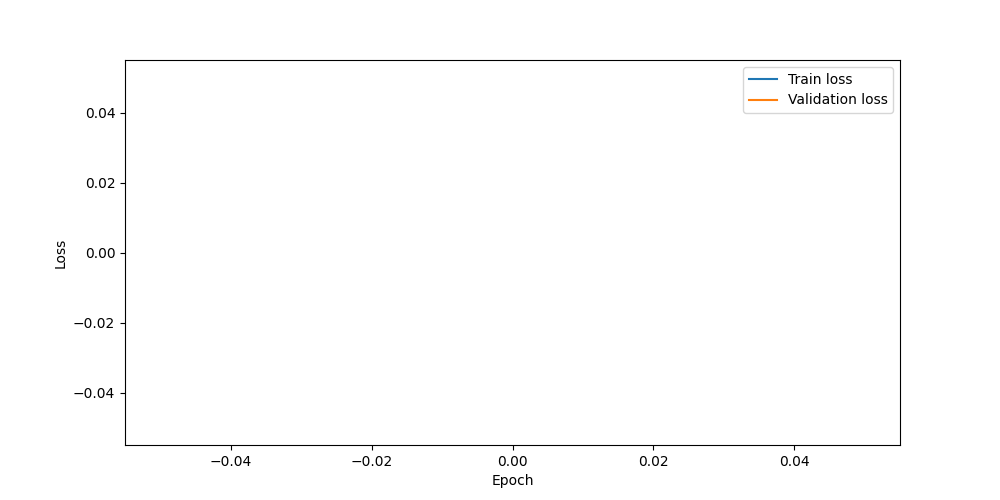
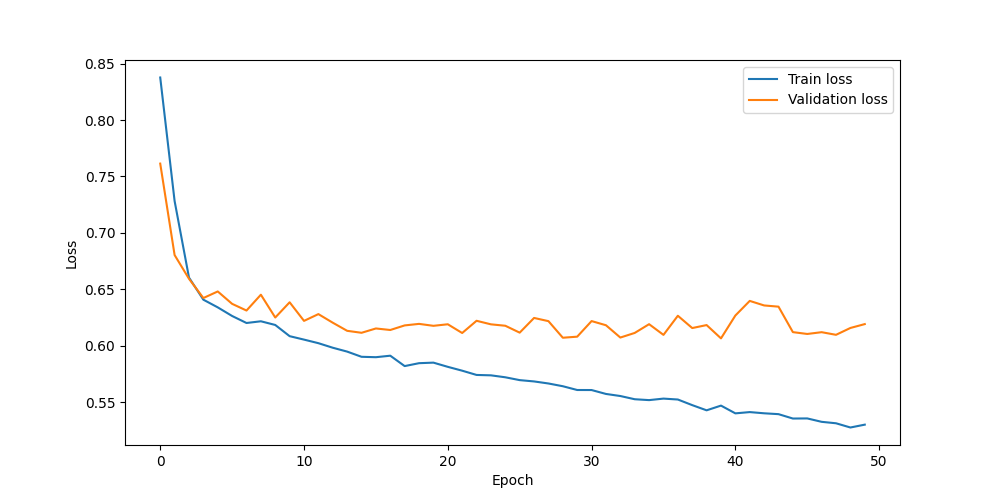
First functional pytorch model. More data needed

diff --git a/src/model_training/trainer.py b/src/model_training/trainer.py
@@ -51,24 +51,11 @@ class Trainer:
     def build(self) -> nn.Module:
         torch.backends.cuda.matmul.allow_tf32 = False
         torch.backends.cudnn.allow_tf32 = False
-        torch.backends.cudnn.benchmark = False
-        torch.backends.cudnn.deterministic = True
+        torch.backends.cudnn.benchmark = True      # False
+        torch.backends.cudnn.deterministic = False   # True
 
         self.model = self.model_strategy.build(self.input_shape, self.NUM_CLASSES)
         self.model.to(self.device)
-        
-        # DEBUG — verificar que CUDA funciona
-        print(f"Device: {self.device}")
-        print(f"CUDA available: {torch.cuda.is_available()}")
-        if torch.cuda.is_available():
-            print(f"GPU: {torch.cuda.get_device_name(0)}")
-            # Test rápido en GPU
-            x = torch.randn(2, 1, 256, 256).to(self.device)
-            with torch.no_grad():
-                out = self.model(x)
-            print(f"GPU test output has nan: {torch.isnan(out).any().item()}")
-            print(f"GPU test output min: {out.min().item():.4f} max: {out.max().item():.4f}")
-        
         print(self.model)
         return self.model
 
@@ -98,14 +85,16 @@ class Trainer:
         best_val_loss = float("inf")
 
         for epoch in range(1, self.epochs + 1):
-            train_metrics = self._run_epoch(train_loader, criterion, optimizer, training=True)
-            val_metrics   = self._run_epoch(val_loader,   criterion, optimizer=None, training=False)
+            train_metrics = self._run_epoch(train_loader, criterion, optimizer, training=True, epoch=epoch)
+            val_metrics   = self._run_epoch(val_loader,  criterion, optimizer=None, training=False, epoch=epoch)
 
             self._log_epoch(epoch, train_metrics, val_metrics)
             self._update_history(history, train_metrics, val_metrics)
 
             if val_metrics["loss"] < best_val_loss:
                 best_val_loss = val_metrics["loss"]
+                if torch.cuda.is_available():
+                    torch.cuda.synchronize()
                 torch.save(self.model.state_dict(), checkpoint_path)
                 print(f"  ✓ Checkpoint saved ({checkpoint_path.name})")
 
@@ -119,10 +108,6 @@ class Trainer:
         print(f"Model saved to: {path}")
         return path
 
-    # ------------------------------------------------------------------
-    # Private helpers
-    # ------------------------------------------------------------------
-
     def _make_loader(
         self,
         images: torch.Tensor,
@@ -131,7 +116,6 @@ class Trainer:
     ) -> DataLoader:
         # images: (B, H, W, 1) → (B, 1, H, W)
         images_chw = images.permute(0, 3, 1, 2)
-        # masks:  (B, H, W) long — already correct
         return DataLoader(
             TensorDataset(images_chw, masks),
             batch_size=self.batch_size,
@@ -144,35 +128,23 @@ class Trainer:
         criterion: Callable,
         optimizer: optim.Optimizer | None,
         training: bool,
+        epoch = None,
     ) -> dict[str, float]:
         self.model.train(training)
         total_loss = total_acc = total_iou = 0.0
+        n = len(loader)
 
-        ctx = torch.enable_grad() if training else torch.no_grad()
-        with ctx:
+        with (torch.enable_grad() if training else torch.no_grad()):
             for imgs, masks in loader:
                 imgs, masks = imgs.to(self.device), masks.to(self.device)
 
-                # --- DEBUG: comprobar NaN en entrada ---
-                if torch.isnan(imgs).any():
-                    print("¡NaN en imágenes!")
-                    import sys; sys.exit()
-                if torch.isnan(masks).any():
-                    print("¡NaN en máscaras!")
-                    import sys; sys.exit()
-                # ---------------------------------------
+                if training:
+                    optimizer.zero_grad()
 
                 preds = self.model(imgs)                        # (B, C, H, W)
-                # --- DEBUG: comprobar NaN en salida del modelo ---
-                if torch.isnan(preds).any():
-                    print("¡NaN en predicciones!")
-                    print(f"preds min: {preds.min().item()}, max: {preds.max().item()}")
-                    import sys; sys.exit()
-                # -------------------------------------------------
                 loss  = criterion(preds.squeeze(1), masks.float())
 
                 if training:
-                    optimizer.zero_grad()
                     loss.backward()
                     torch.nn.utils.clip_grad_norm_(self.model.parameters(), max_norm=1.0)
                     optimizer.step()
@@ -182,7 +154,6 @@ class Trainer:
                 total_acc  += acc
                 total_iou  += iou
 
-        n = len(loader)
         return {"loss": total_loss / n, "acc": total_acc / n, "iou": total_iou / n}
 
     @staticmethod

diff --git a/src/model_training/data_preprocessing/masking/circular_dynamic_masking.py b/src/model_training/data_preprocessing/masking/circular_dynamic_masking.py
@@ -1,6 +1,7 @@
 import numpy as np
 import cv2 as cv
 from scipy.spatial.distance import cdist
+from scipy.spatial import cKDTree
 
 from .masking_interface import MaskingStrategy
 
@@ -24,6 +25,14 @@ class CircularDynamicMasking(MaskingStrategy):
         flux_threshold = np.percentile(objects_info[:, 2], self.flux_percentile)
 
         adapted = self._adapt_and_filter(objects_info, original_image_shape, target_shape, flux_threshold)
+        
+        # MAX_OBJECTS = 300  # Ajusta según tu paciencia
+        # if len(objects_info) > MAX_OBJECTS:
+            # Ordenar por flujo y quedarse con los más brillantes
+            # objects_info = objects_info[np.argsort(objects_info[:, 2])[::-1][:MAX_OBJECTS]]
+        
+        # adapted = self._adapt_and_filter(objects_info, original_image_shape, target_shape, flux_threshold)
+
         merged = self._merge_nearby(adapted)
 
         mask = np.zeros(target_shape, dtype=np.uint8)
@@ -58,17 +67,48 @@ class CircularDynamicMasking(MaskingStrategy):
         return adapted
 
     def _merge_nearby(self, objects: list) -> list:
-        if not objects:
-            return []
+        if len(objects) <= 1:
+            return objects
+        
         coords = np.array([(o[0], o[1]) for o in objects])
         fluxes = np.array([o[2] for o in objects])
-        distances = cdist(coords, coords)
-        merged, used = [], set()
-        for i in range(len(objects)):
-            if i in used:
-                continue
-            nearby = [j for j in np.where(distances[i] < self.merge_radius)[0] if j not in used]
-            best = nearby[int(np.argmax(fluxes[nearby]))]
-            merged.append(objects[best])
-            used.update(nearby)
+        
+        # Construir KDTree
+        tree = cKDTree(coords)
+        
+        # Encontrar todos los pares de puntos dentro del radio de fusión
+        # query_pairs devuelve un conjunto de pares (i, j) con i < j
+        pairs = tree.query_pairs(r=self.merge_radius, output_type='ndarray')
+        
+        # Estructura para unión-find (disjoint sets)
+        parent = list(range(len(objects)))
+        
+        def find(x):
+            while parent[x] != x:
+                parent[x] = parent[parent[x]]  # Compresión de camino
+                x = parent[x]
+            return x
+        
+        def union(x, y):
+            rx, ry = find(x), find(y)
+            if rx != ry:
+                # Unir (podríamos elegir el de mayor flujo como raíz, pero no es necesario)
+                parent[ry] = rx
+        
+        # Unir todos los pares cercanos
+        for i, j in pairs:
+            union(i, j)
+        
+        # Agrupar índices por su raíz
+        groups = {}
+        for idx in range(len(objects)):
+            root = find(idx)
+            groups.setdefault(root, []).append(idx)
+        
+        # Para cada grupo, elegir el objeto con mayor flujo
+        merged = []
+        for indices in groups.values():
+            best_idx = indices[np.argmax(fluxes[indices])]
+            merged.append(objects[best_idx])
+        
         return merged

diff --git a/src/model_training/data_preprocessing/loader.py b/src/model_training/data_preprocessing/loader.py
@@ -4,6 +4,9 @@ import astropy.io.fits as fits
 import cv2 as cv
 import numpy as np
 
+from astropy.utils.data import conf
+conf.allow_internet = False
+
 from .entry import DatasetEntry
 from .normalization.normalization_interface import NormalizationStrategy
 from .masking.masking_interface import MaskingStrategy
@@ -45,8 +48,15 @@ class DatasetLoader:
             return None
 
         normalized = self.normalization.normalize(monochrome)
+        if np.isnan(normalized).any():
+            print(f"NaN después de normalizar en {entry_id}, saltando entrada")
+            return None
+        
         resized = cv.resize(normalized, (self.target_shape[1], self.target_shape[0]))
-
+        if np.isnan(resized).any():
+            print(f"NaN después de resize en {entry_id}, saltando entrada")
+            return None
+        
         objects_info = np.stack(
             [detected_objects["X"], detected_objects["Y"], detected_objects["FLUX"]],
             axis=-1,
@@ -66,14 +76,23 @@ class DatasetLoader:
         )
 
     def _read_fits_image(self, entry_path: Path, entry_id: str) -> np.ndarray:
-        with fits.open(entry_path / f"{entry_id}-image.fits") as hdul:
+        image_path = entry_path / f"{entry_id}-image.fits"
+        if not image_path.exists():
+            raise FileNotFoundError(f"FITS image not found: {image_path}")
+        with fits.open(image_path) as hdul:
             data = hdul[0].data
         if data is None:
             raise ValueError("Empty FITS image")
+        if np.isnan(data).any():
+            print(f"NaN detectado en {entry_id}-image.fits, reemplazando por 0")
+            data = np.nan_to_num(data, nan=0.0)
         return data
 
     def _read_detected_objects(self, entry_path: Path, entry_id: str):
-        with fits.open(entry_path / f"{entry_id}-axy.fits") as hdul:
+        axy_path = entry_path / f"{entry_id}-axy.fits"
+        if not axy_path.exists():
+            raise FileNotFoundError(f"AXY file not found: {axy_path}")
+        with fits.open(axy_path) as hdul:
             data = hdul[1].data
         if data is None or len(data) == 0:
             raise ValueError("Empty or missing objects table")

diff --git a/src/model_training/train.py b/src/model_training/train.py
@@ -17,6 +17,7 @@ import torch
 from sklearn.model_selection import train_test_split
 
 sys.path.append(str(Path(__file__).parent.parent.parent / "src"))
+sys.stdout.reconfigure(line_buffering=True)
 
 from model_training.data_preprocessing.loader import DatasetLoader
 from model_training.data_preprocessing.normalization.log_normalization import LogPercentileNormalization
@@ -25,6 +26,7 @@ from model_training.data_preprocessing.masking.circular_dynamic_masking import C
 from model_training.data_preprocessing.masking.bbox_masking import SimpleBboxMasking
 from model_training.modelling_specs.losses.dice_loss import DiceLoss
 from model_training.modelling_specs.losses.combined_loss import CombinedLoss
+from model_training.modelling_specs.losses.bce_loss import BCELoss
 from model_training.modelling_specs.losses.cross_entropy_loss import CrossEntropyLoss
 from model_training.modelling_specs.models.U_Net_3_levels import UNet3Levels
 from model_training.modelling_specs.models.U_Net_4_levels import UNet4Levels

diff --git a/src/model_training/modelling_specs/models/U_Net_4_levels.py b/src/model_training/modelling_specs/models/U_Net_4_levels.py
@@ -18,8 +18,8 @@ class UNet4LevelsModule(nn.Module):
         self.dec2 = DecoderBlock(256, 128, 128)
         self.dec1 = DecoderBlock(128, 64, 64)
 
-        self.output_conv = nn.Conv2d(64, num_classes, kernel_size=1)
-        self.softmax = nn.Softmax(dim=1)
+        self.output_conv = nn.Conv2d(64, 1, kernel_size=1)
+        self.sigmoid = nn.Sigmoid()
 
     def forward(self, x):
         conv1, pool1 = self.enc1(x)
@@ -34,7 +34,7 @@ class UNet4LevelsModule(nn.Module):
         x = self.dec2(x, conv2)
         x = self.dec1(x, conv1)
 
-        return self.softmax(self.output_conv(x))
+        return self.sigmoid(self.output_conv(x))
 
 
 class UNet4Levels(UNetBase):

diff --git a/src/model_analysis/detector.py b/src/model_analysis/detector.py
@@ -37,7 +37,7 @@ class Detector:
         normalization: NormalizationStrategy,
         target_shape: tuple = (256, 256),
     ) -> "Detector":
-        model = torch.load(str(model_path), map_location="cpu")
+        model = torch.load(str(model_path), map_location="cpu", weights_only=False)
         return cls(model, postprocessing, normalization, target_shape)
 
     def predict_mask(self, preprocessed_image: np.ndarray) -> np.ndarray:

diff --git a/src/model_applications/run_inference.py b/src/model_applications/run_inference.py
@@ -15,6 +15,9 @@ import matplotlib.pyplot as plt
 import numpy as np
 from matplotlib.colors import PowerNorm
 
+from astropy.utils.data import conf
+conf.allow_internet = False
+
 sys.path.append(str(Path(__file__).parent.parent))
 
 from model_training.data_preprocessing.normalization.log_normalization import LogPercentileNormalization

diff --git a/src/model_training/modelling_specs/losses/bce_loss.py b/src/model_training/modelling_specs/losses/bce_loss.py
@@ -1,0 +1,10 @@
+from typing import Callable
+
+import torch.nn as nn
+
+from .losses_interface import LossStrategy
+
+class BCELoss(LossStrategy):
+    "Binary Cross-Entropy loss"
+    def get_loss(self) -> Callable:
+        return nn.BCELoss()

diff --git a/src/dataset_downloader/dataset_downloader.py b/src/dataset_downloader/dataset_downloader.py
@@ -21,7 +21,7 @@ if not api_key:
 
 DATASET_PATH = "/app/data/dataset"
 JOB_START_ID = 1545567
-JOB_AMOUNT = 500
+JOB_AMOUNT = 1500
 JOBS_RANGE = range(JOB_START_ID, JOB_START_ID + JOB_AMOUNT)
 TIMEOUT_SECONDS = 10
 CHUNK_SIZE = 8192
